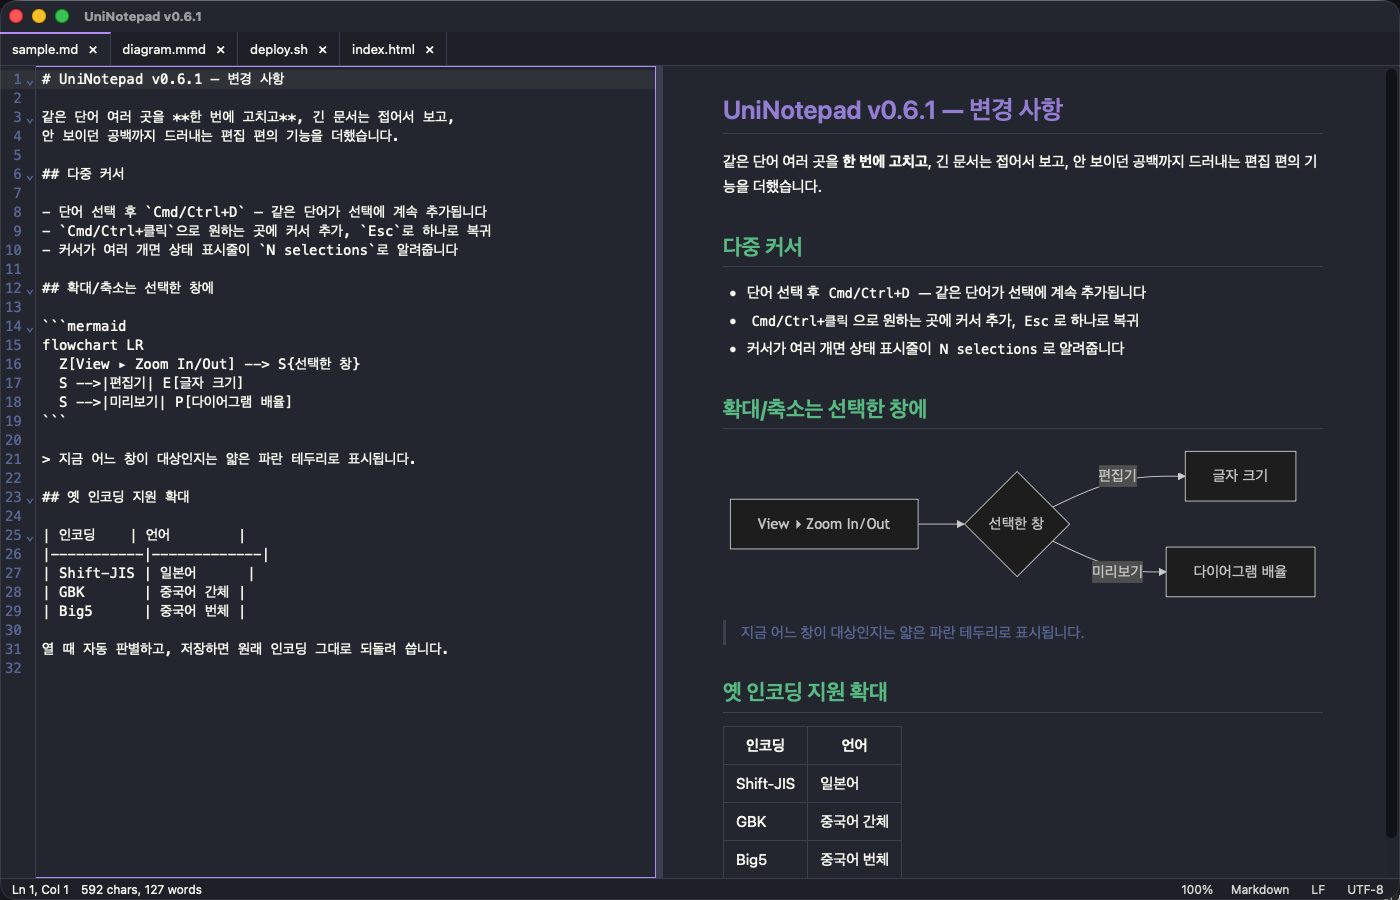
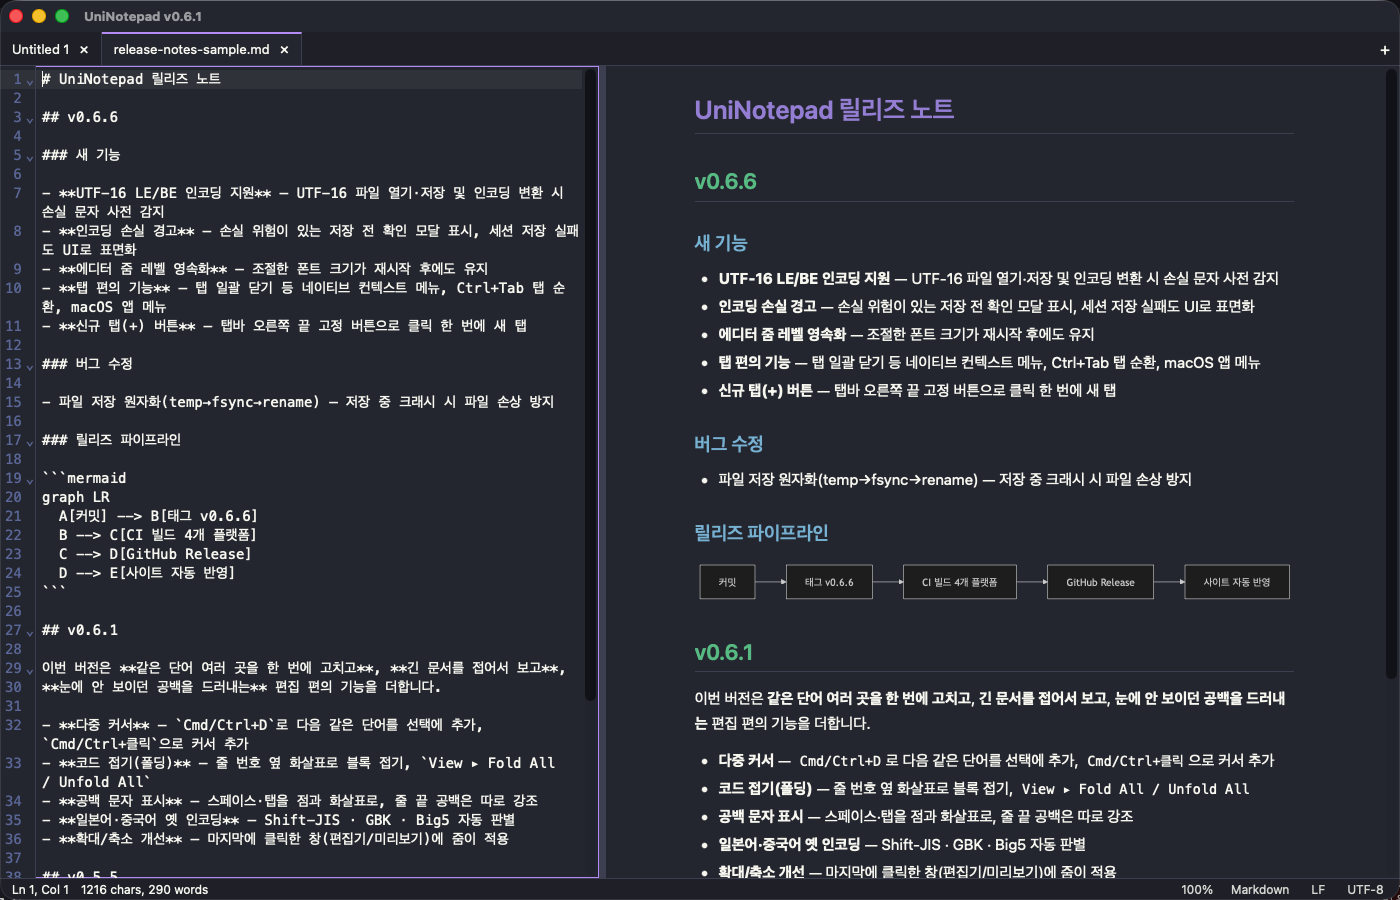
[Docs] v0.6.6 기능을 README·사이트에 반영 + Markdown 스크린샷 갱신
- UTF-16·인코딩 손실 경고, 줌 영속화, 탭 편의 기능(+ 버튼·Ctrl+Tab·일괄 닫기), 원자적 저장 반영
- syntax-markdown.png를 v0.6.6 릴리즈 노트 샘플 화면으로 교체 (docs/ + site/assets/ 동일본)

diff --git a/site/index.html b/site/index.html
@@ -213,13 +213,13 @@
     <section>
       <div class="features">
         <div class="feature"><p class="t">💾 저장 걱정 없음</p><p class="d">타이핑을 멈추면 알아서 기록 — 닫을 때 "저장하시겠습니까?"를 묻지 않습니다.</p></div>
-        <div class="feature"><p class="t">🗂️ 탭 · 세션 복원</p><p class="d">껐다 켜도, 갑자기 꺼져도 열어둔 탭이 미저장 메모까지 그대로.</p></div>
+        <div class="feature"><p class="t">🗂️ 탭 · 세션 복원</p><p class="d">껐다 켜도, 갑자기 꺼져도 열어둔 탭이 미저장 메모까지 그대로 — 탭바 + 버튼, Ctrl+Tab 순환, 우클릭으로 한꺼번에 닫기.</p></div>
         <div class="feature"><p class="t">🎨 구문 강조</p><p class="d">143개 언어를 파일 이름만 보고 자동 판별합니다.</p></div>
-        <div class="feature"><p class="t">📄 문서 미리보기</p><p class="d">Markdown·Mermaid 실시간 렌더 · 스크롤 동기화 · HTML 내보내기 · 인쇄(PDF) · 편집기와 미리보기 따로 확대.</p></div>
+        <div class="feature"><p class="t">📄 문서 미리보기</p><p class="d">Markdown·Mermaid 실시간 렌더 · 스크롤 동기화 · HTML 내보내기 · 인쇄(PDF) · 편집기와 미리보기 따로 확대 — 확대 크기는 다시 켜도 유지.</p></div>
         <div class="feature"><p class="t">🌗 라이트·다크 테마</p><p class="d">시스템 설정을 따르거나 직접 선택 — 미리보기 색도 함께 바뀝니다.</p></div>
         <div class="feature"><p class="t">✂️ 줄 편집 도구</p><p class="d">정렬 · 중복/빈 줄 제거 · 공백 정리 · 대소문자 · 줄 이동.</p></div>
         <div class="feature"><p class="t">⌨️ 다중 커서 · 코드 폴딩</p><p class="d">같은 단어를 한꺼번에 선택해 고치고, 긴 코드는 접어서 봅니다. 공백 문자 표시까지.</p></div>
-        <div class="feature"><p class="t">🇰🇷 예전 인코딩 파일</p><p class="d">UTF-8은 물론 EUC-KR/CP949 · Shift-JIS · GBK · Big5도 판별해서 엽니다.</p></div>
+        <div class="feature"><p class="t">🇰🇷 예전 인코딩 파일</p><p class="d">UTF-8·UTF-16은 물론 EUC-KR/CP949 · Shift-JIS · GBK · Big5도 판별해서 엽니다. 표현할 수 없는 문자는 저장 전에 미리 경고.</p></div>
         <div class="feature"><p class="t">🪶 가벼움</p><p class="d">브라우저를 끼워 넣지 않고 OS 기능을 써서 설치 파일 3MB 안팎.</p></div>
       </div>
     </section>
@@ -264,11 +264,11 @@
       </details>
       <details>
         <summary>그럼 저장 버튼은 왜 있나요?</summary>
-        <p>앱이 알아서 보관하는 건 이 앱 안에서만 쓰는 임시 보관본입니다. 내용을 실제 파일로 남겨 다른 프로그램에서도 열려면 저장을 해야 합니다.</p>
+        <p>앱이 알아서 보관하는 건 이 앱 안에서만 쓰는 임시 보관본입니다. 내용을 실제 파일로 남겨 다른 프로그램에서도 열려면 저장을 해야 합니다. 저장할 때는 임시 파일에 먼저 완전히 쓴 뒤 순간적으로 바꿔치기하는 방식이라, 저장 도중 컴퓨터가 꺼져도 원래 파일이 깨지지 않습니다.</p>
       </details>
       <details>
         <summary>한글이 깨지지 않나요?</summary>
-        <p>UTF-8 파일은 (BOM이 있든 없든) 그대로 잘 열립니다. 예전 윈도우 메모장에서 "ANSI"로 저장한 한글 파일(EUC-KR/CP949)도 알아서 판별해 제대로 엽니다. 혹시 잘못 인식되면 상태 표시줄에서 EUC-KR을 직접 골라 다시 읽어올 수 있습니다. 일본어(Shift-JIS)·중국어 간체(GBK)·번체(Big5)로 저장된 옛 문서도 같은 방식으로 자동 판별해 열고, 상태 표시줄에서 직접 골라 다시 읽을 수도 있습니다.</p>
+        <p>UTF-8 파일은 (BOM이 있든 없든) 그대로 잘 열립니다. 예전 윈도우 메모장에서 "ANSI"로 저장한 한글 파일(EUC-KR/CP949)도 알아서 판별해 제대로 엽니다. 혹시 잘못 인식되면 상태 표시줄에서 EUC-KR을 직접 골라 다시 읽어올 수 있습니다. 일본어(Shift-JIS)·중국어 간체(GBK)·번체(Big5)로 저장된 옛 문서도 같은 방식으로 자동 판별해 열고, 상태 표시줄에서 직접 골라 다시 읽을 수도 있습니다. UTF-16(LE/BE) 파일도 마찬가지로 열고 저장할 수 있으며, 지금 고른 인코딩으로 표현할 수 없는 문자가 있으면 저장 전에 미리 알려줍니다.</p>
       </details>
       <details>
         <summary>작업하던 파일을 다른 프로그램에서 고치면요?</summary>

diff --git a/README.md b/README.md
@@ -32,13 +32,13 @@ UniNotepad에서는 그런 일이 생기지 않습니다. 열어둔 탭은 **저
 | 기능 | 설명 |
 |:--|:--|
 | 💾 **저장 걱정 없음** | 타이핑을 멈추면 알아서 기록 — 닫을 때 "저장하시겠습니까?"를 묻지 않습니다 |
-| 🗂️ **탭 · 세션 복원** | 껐다 켜도, 갑자기 꺼져도 열어둔 탭이 **미저장 메모까지** 그대로 |
+| 🗂️ **탭 · 세션 복원** | 껐다 켜도, 갑자기 꺼져도 열어둔 탭이 **미저장 메모까지** 그대로 — 탭바 **+** 버튼, Ctrl+Tab 순환, 우클릭 메뉴로 다른 탭 한꺼번에 닫기 |
 | 🎨 **구문 강조** | 143개 언어를 파일 이름만 보고 자동 판별 |
-| 📄 **문서 미리보기** | Markdown·Mermaid 실시간 렌더 · 스크롤 동기화 · HTML 내보내기 · 인쇄(PDF) · 편집기와 미리보기 따로 확대 |
+| 📄 **문서 미리보기** | Markdown·Mermaid 실시간 렌더 · 스크롤 동기화 · HTML 내보내기 · 인쇄(PDF) · 편집기와 미리보기 따로 확대 — 확대 크기는 다시 켜도 유지 |
 | 🌗 **라이트·다크 테마** | 시스템 설정을 따르거나 직접 선택 — 미리보기 색도 함께 바뀝니다 |
 | ✂️ **줄 편집 도구** | 정렬 · 중복/빈 줄 제거 · 공백 정리 · 대소문자 · 줄 이동 (`Edit ▸ Line Operations`) |
 | ⌨️ **다중 커서 · 코드 폴딩** | 같은 단어를 한꺼번에 선택해 고치고(Cmd/Ctrl+D), 긴 코드는 접어서 봅니다 — 공백 문자 표시 토글도 (`View` 메뉴) |
-| 🇰🇷 **옛 인코딩 파일** | UTF-8은 물론 EUC-KR/CP949 · Shift-JIS · GBK · Big5도 판별해서 엽니다 |
+| 🇰🇷 **옛 인코딩 파일** | UTF-8·UTF-16은 물론 EUC-KR/CP949 · Shift-JIS · GBK · Big5도 판별해서 엽니다 — 표현할 수 없는 문자는 저장 전에 미리 경고 |
 | 🪶 **가벼움** | 브라우저를 끼워 넣지 않고 OS 기능을 써서 설치 파일 **3MB 안팎** |
 
 > Linux `.AppImage`만은 필요한 것을 전부 담느라 큽니다 — 가볍게 쓰시려면 `.deb`나 `.rpm`을 받으세요.
@@ -114,6 +114,9 @@ xattr -cr /Applications/UniNotepad.app
 앱이 알아서 보관하는 건 이 앱 안에서만 쓰는 임시 보관본입니다.
 내용을 실제 파일로 남겨 다른 프로그램에서도 열려면 저장을 해야 합니다.
 
+저장할 때는 임시 파일에 먼저 완전히 쓴 뒤 순간적으로 바꿔치기하는 방식이라,
+저장 도중 컴퓨터가 꺼져도 원래 파일이 깨지지 않습니다.
+
 </details>
 
 <details>
@@ -150,5 +153,9 @@ xattr -cr /Applications/UniNotepad.app
 
 일본어(Shift-JIS)·중국어 간체(GBK)·번체(Big5)로 저장된 옛 문서도 같은 방식으로
 자동 판별해 열고, 상태 표시줄에서 직접 골라 다시 읽을 수도 있습니다.
+UTF-16(LE/BE) 파일도 마찬가지로 열고 저장할 수 있습니다.
+
+지금 고른 인코딩으로 표현할 수 없는 문자가 있으면 저장하기 전에 미리 알려주므로,
+모르는 사이에 글자가 깨진 채 저장되는 일이 없습니다.
 
 </details>